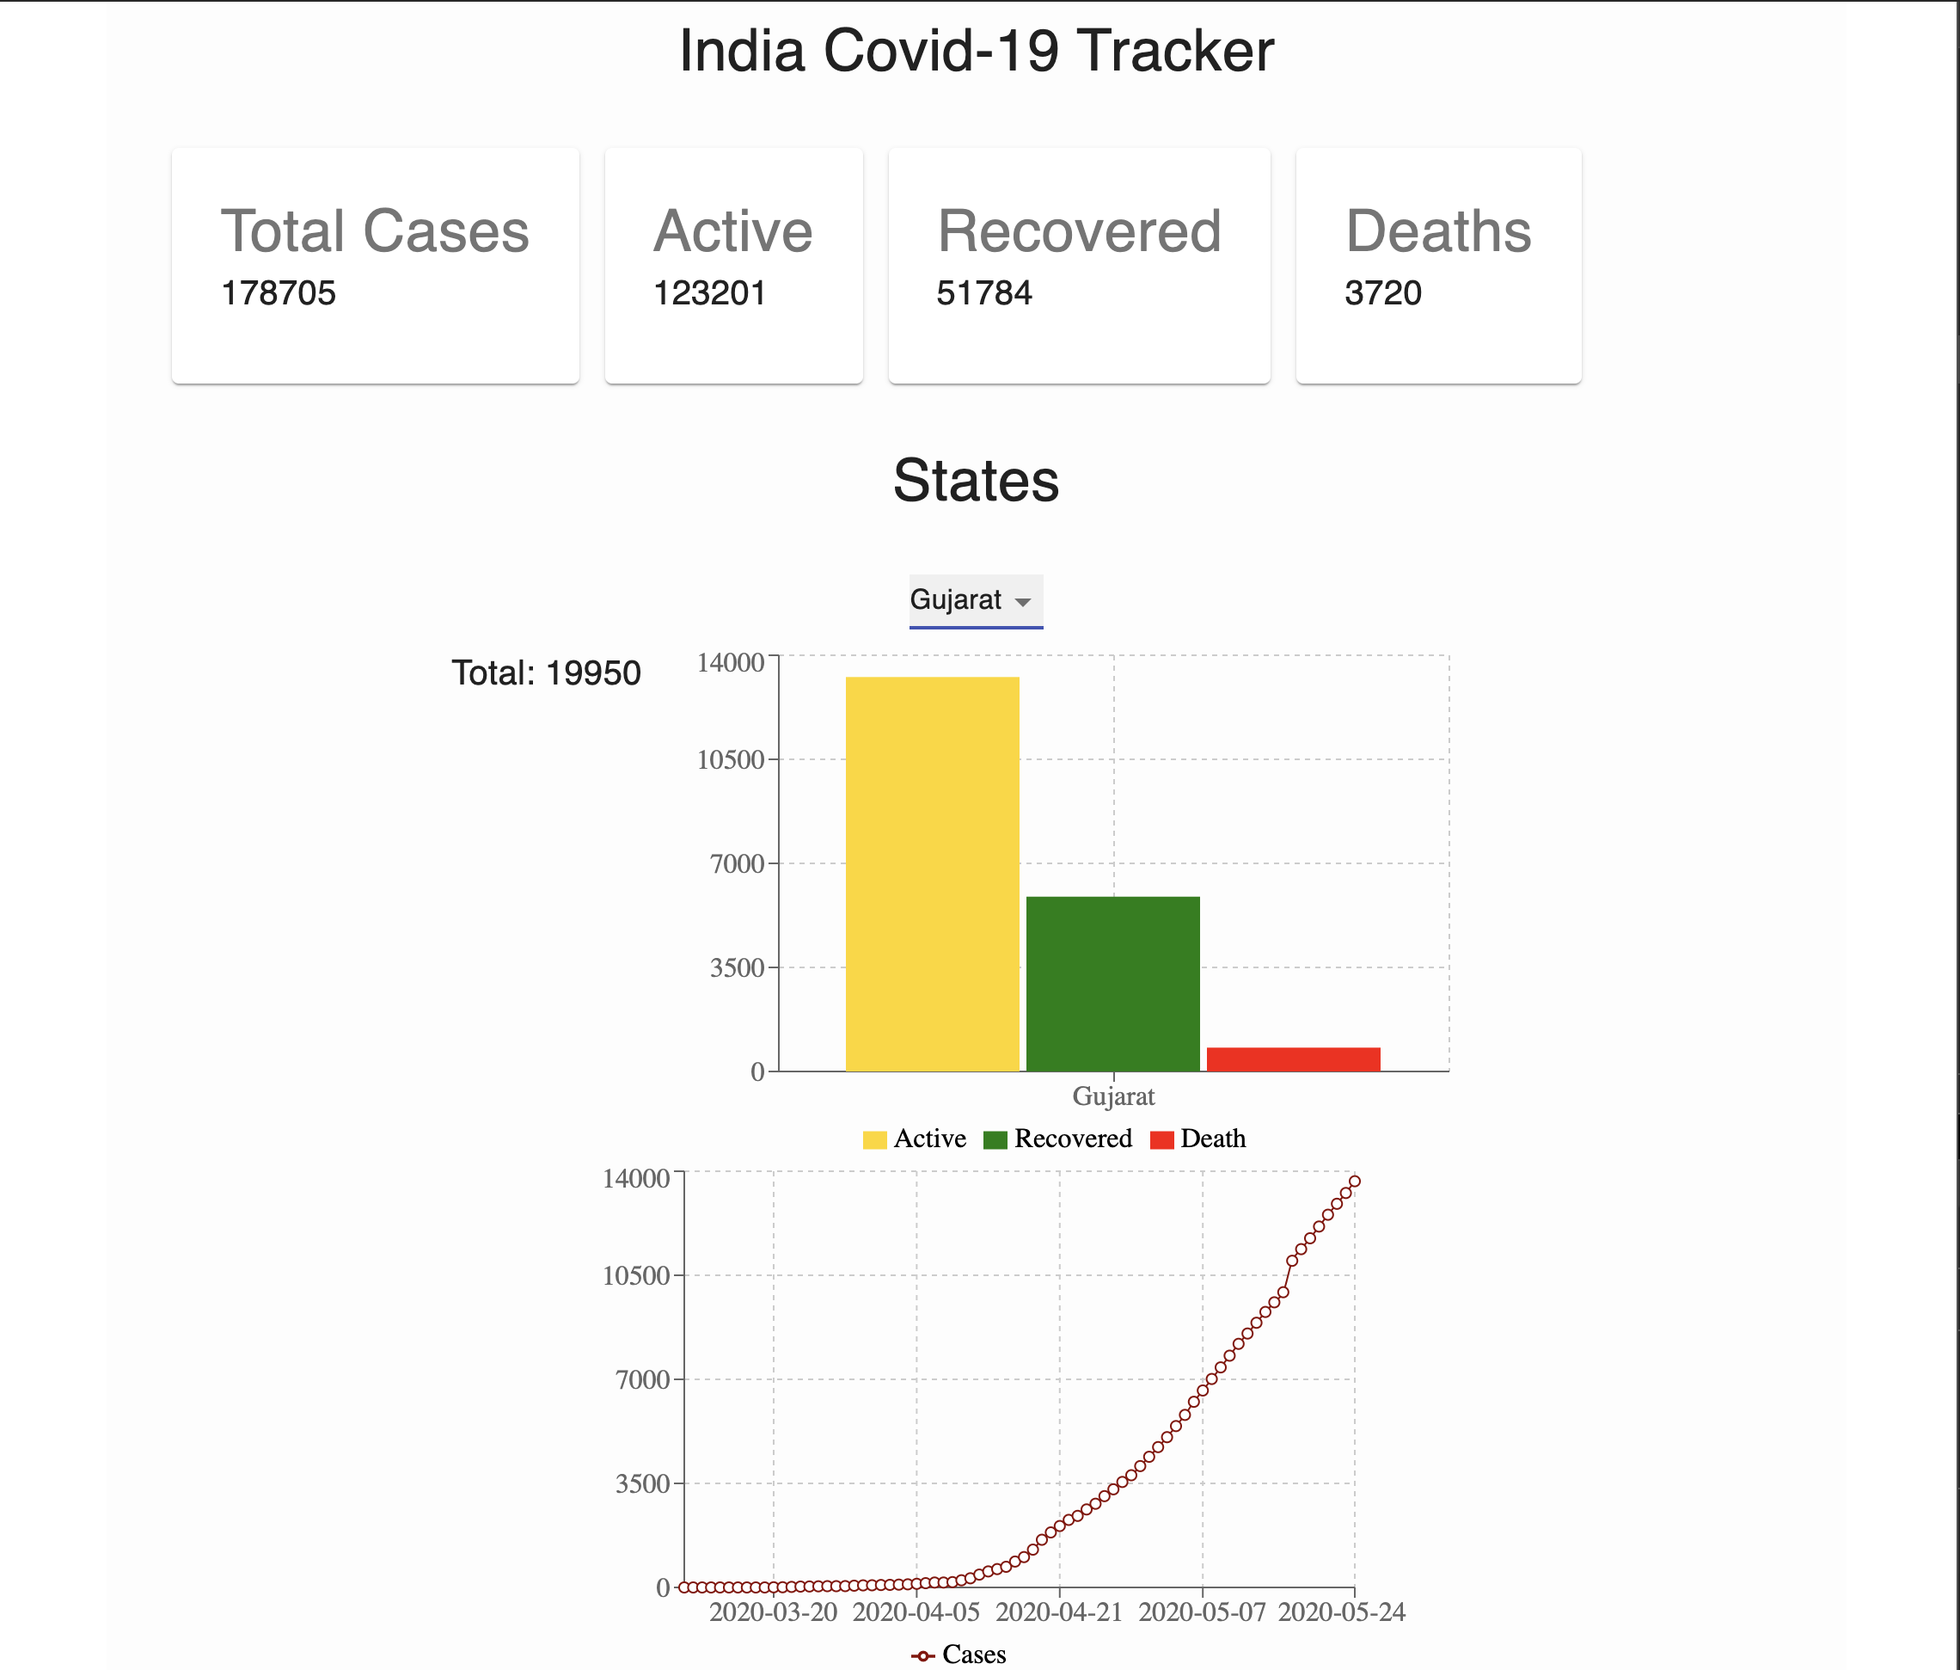
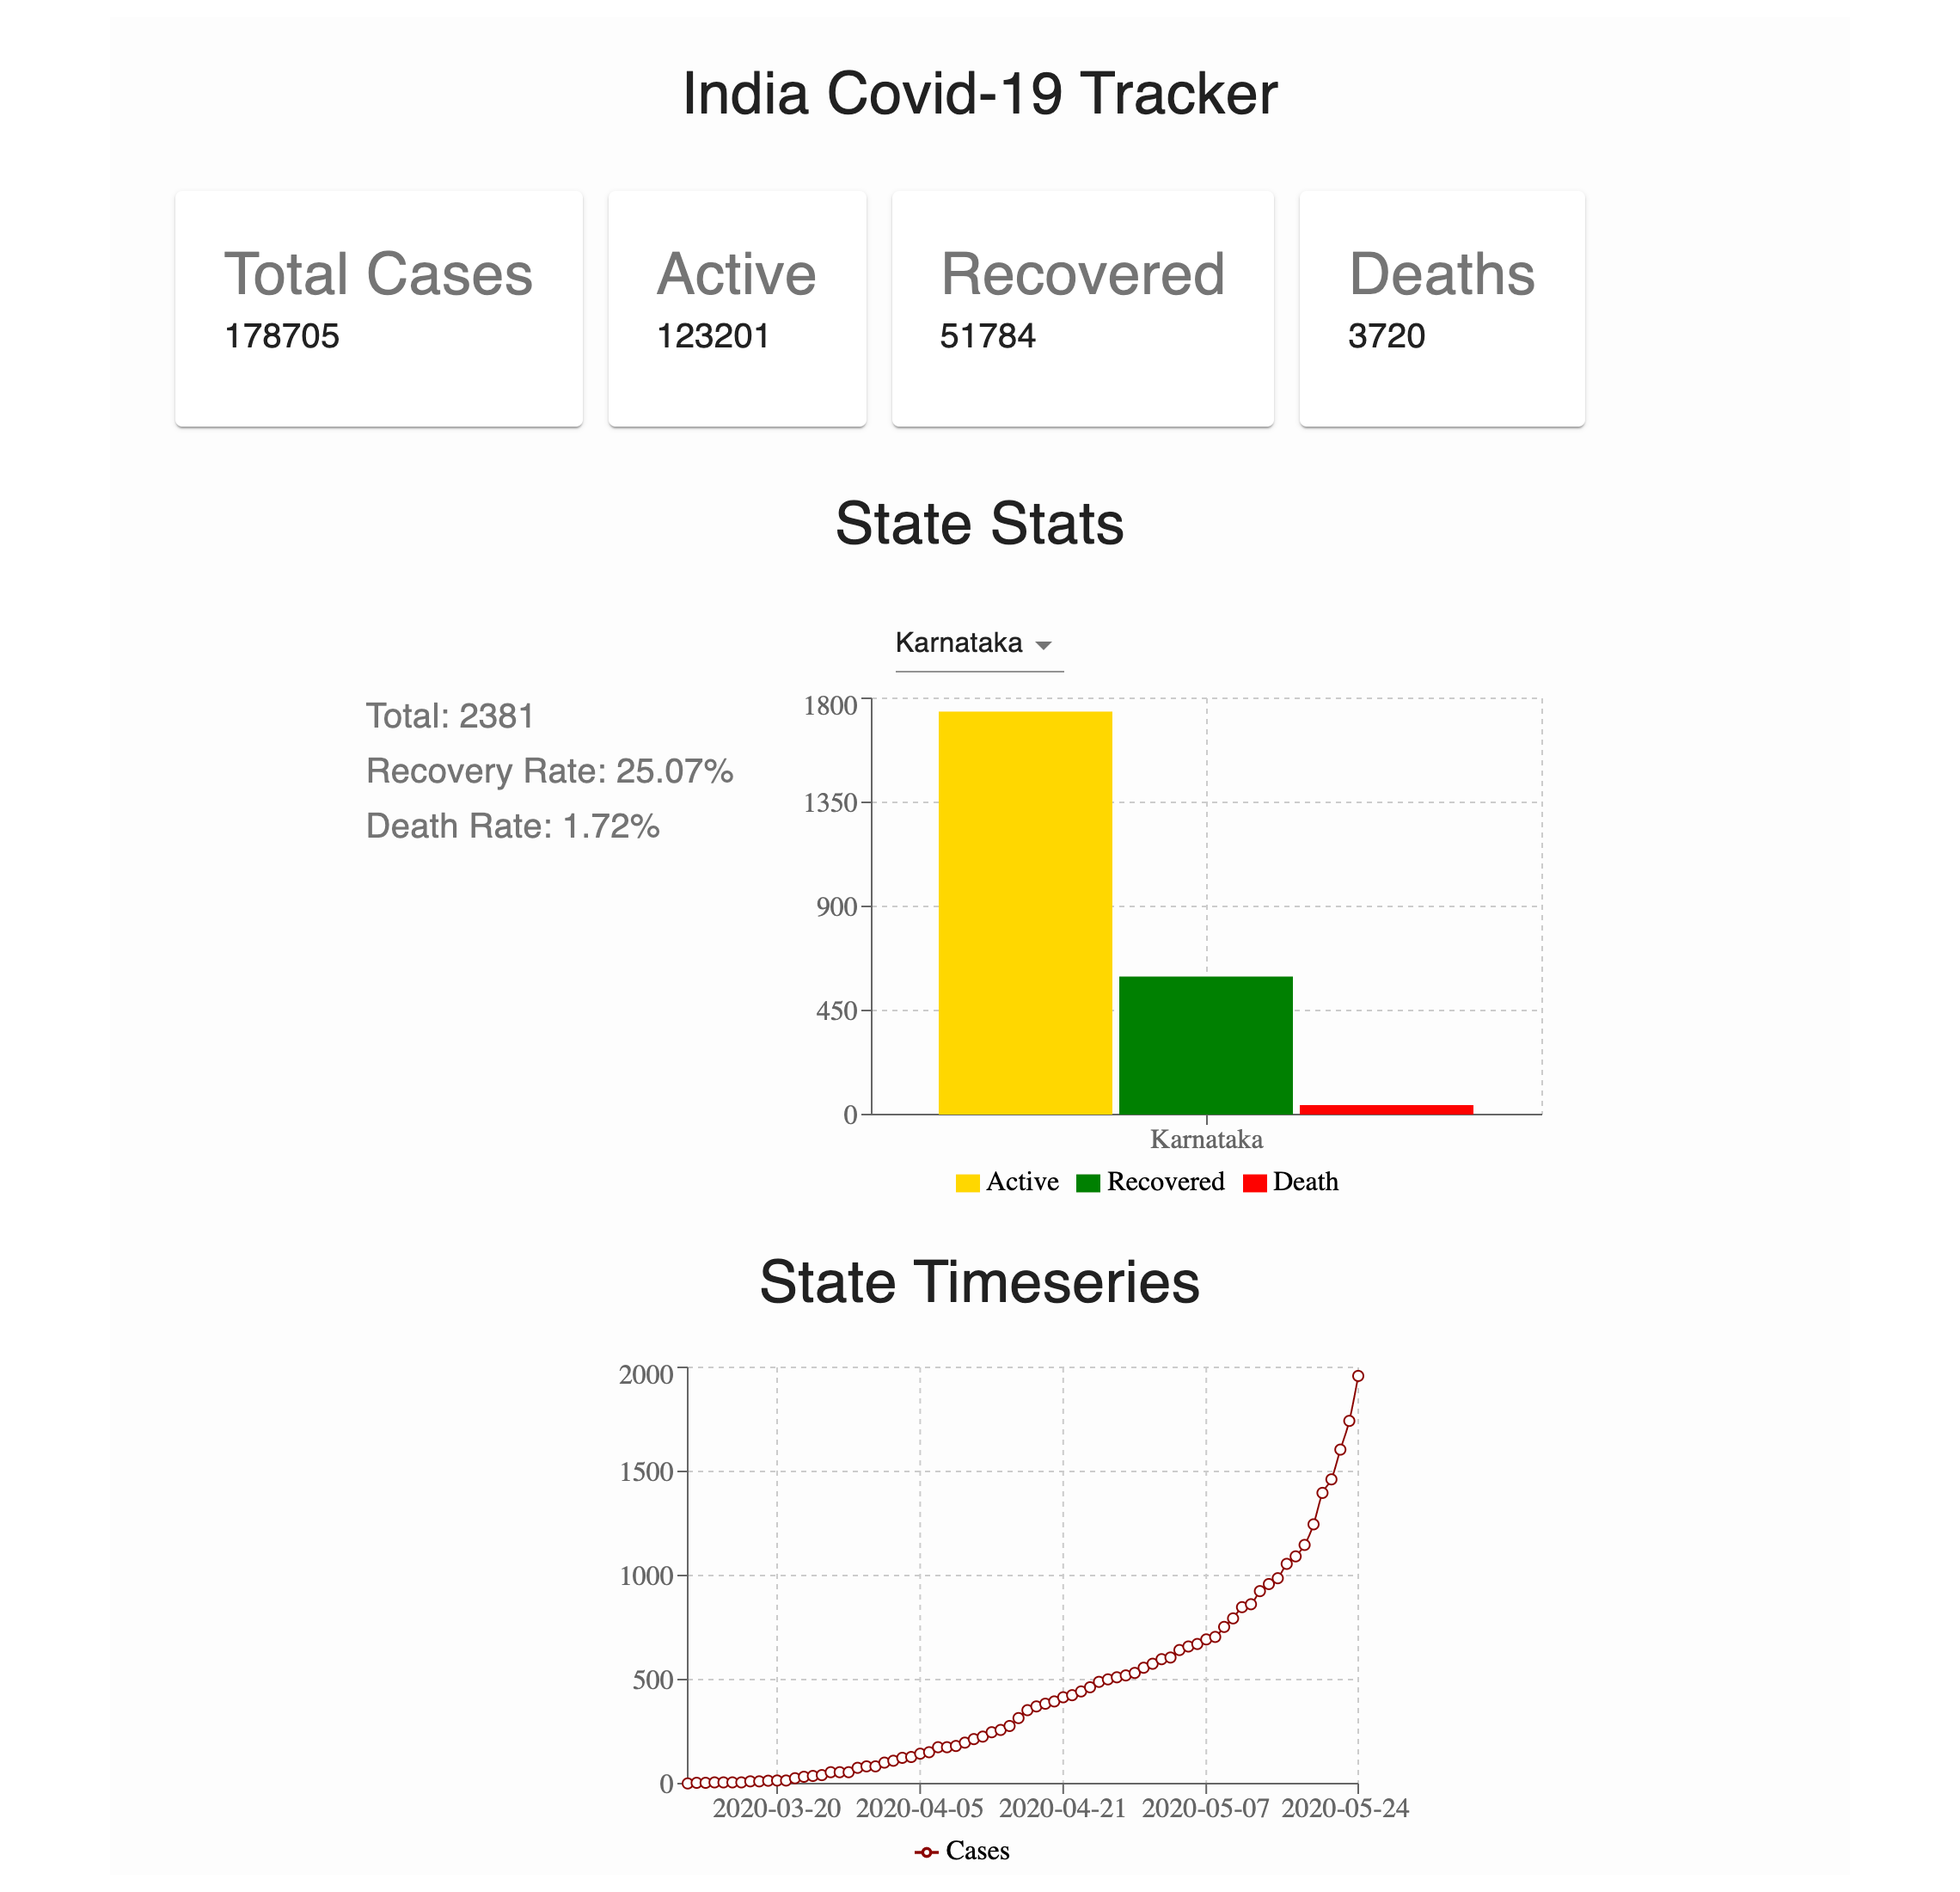
recovery rate and death rate calculation

diff --git a/src/components/StateSummary/StateSummary.js b/src/components/StateSummary/StateSummary.js
@@ -1,4 +1,4 @@
-import React, { useEffect,  useState } from 'react'
+import React, { useEffect, useState } from 'react'
 import { Box, Typography } from '@material-ui/core'
 
 import { fetchStateSummary } from '../../data/api'
@@ -12,7 +12,7 @@ const StateSummary = ({ selectedState }) => {
 
     useEffect(() => {
         setLoading(true)
-        async function fetchData() {
+        async function fetchData () {
             const result = await fetchStateSummary(selectedState)
             setData(result)
             setLoading(false)
@@ -28,7 +28,11 @@ const StateSummary = ({ selectedState }) => {
 
     return (
         <Box className={styles.container}>
-            <Typography variant="h6" color="textPrimary">Total: {data[0].Total}</Typography>
+            <Box>
+                <Typography variant="h6" color="textSecondary">Total: {data[0].Total}</Typography>
+                <Typography variant="h6" color="textSecondary">Recovery Rate: {data[0].RecoveryRate}%</Typography>
+                <Typography variant="h6" color="textSecondary">Death Rate: {data[0].DeathRate}%</Typography>
+            </Box>
             <BarGraph
                 data={data}
             />

diff --git a/src/App.js b/src/App.js
@@ -24,7 +24,7 @@ class App extends React.Component {
                 </Box>
                 <CountrySummary />
                 <Box className={styles.heading}>
-                    <Typography variant="h4" align="center" color="textPrimary">States</Typography>
+                    <Typography variant="h4" align="center" color="textPrimary">State Stats</Typography>
                 </Box>
                 <Box className={styles.selectComponent}>
                     <Select
@@ -44,6 +44,9 @@ class App extends React.Component {
                 <StateSummary
                     selectedState={selectedState}
                 />
+                <Box className={styles.heading}>
+                    <Typography variant="h4" align="center" color="textPrimary">State Timeseries</Typography>
+                </Box>
                 <StateTimeline
                     selectedState={selectedState}
                 />

diff --git a/src/data/api.js b/src/data/api.js
@@ -37,6 +37,8 @@ export const fetchStateSummary = async (state = 'Karnataka') => {
         const { data: { data } } = await axios(API_URL, axiosConfig)
         let result = [{
             Name: state,
+            RecoveryRate: ((data[0].cured/data[0].total) * 100).toFixed(2),
+            DeathRate: ((data[0].death/data[0].total) * 100).toFixed(2),
             Active: data[0].confirmed,
             Recovered: data[0].cured,
             Death: data[0].death,
